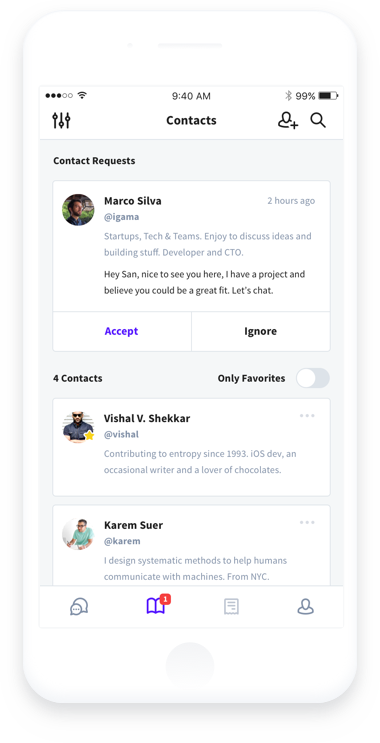
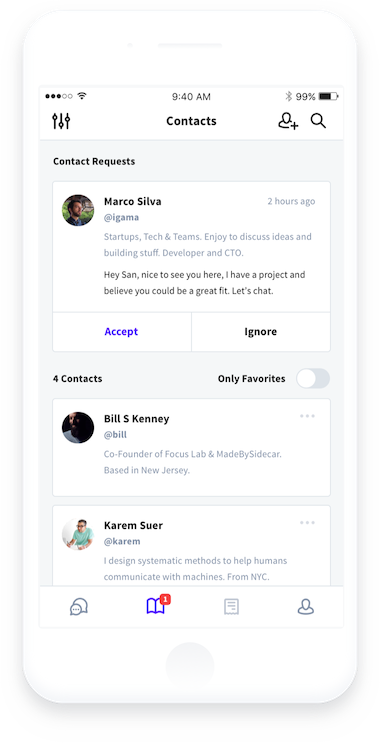
CSS tweaks for slider alignment and swapped out screenshots.

diff --git a/public/assets/styles/_sections/Functions.less b/public/assets/styles/_sections/Functions.less
@@ -22,7 +22,7 @@
     }
     .phone-pic {
       img {
-        width: 70%;
+        width: 100%;
       }
     }
     .title {
@@ -32,8 +32,8 @@
     }
     .text {
       color: @light-gray;
-      font-size: 18px;
-      line-height: 30px;
+      font-size: 16px;
+      line-height: 1.9;
     }
   }
 }
@@ -83,7 +83,7 @@
       overflow: hidden;
     }
     #bigPhonePic {
-      width: 75%;
+      width: 100%;
       margin: 0 auto;
       display: block;
       text-align: center;
@@ -111,6 +111,19 @@
       }
       .phone-pic{
         display: none;
+      }
+      .text {
+        font-size: 14px;
+      }
+    }
+  }
+}
+
+@media screen and (min-width: 950px) {
+  #functionsSection {
+    .functionality {
+      .text {
+        font-size: 16px;
       }
     }
   }
